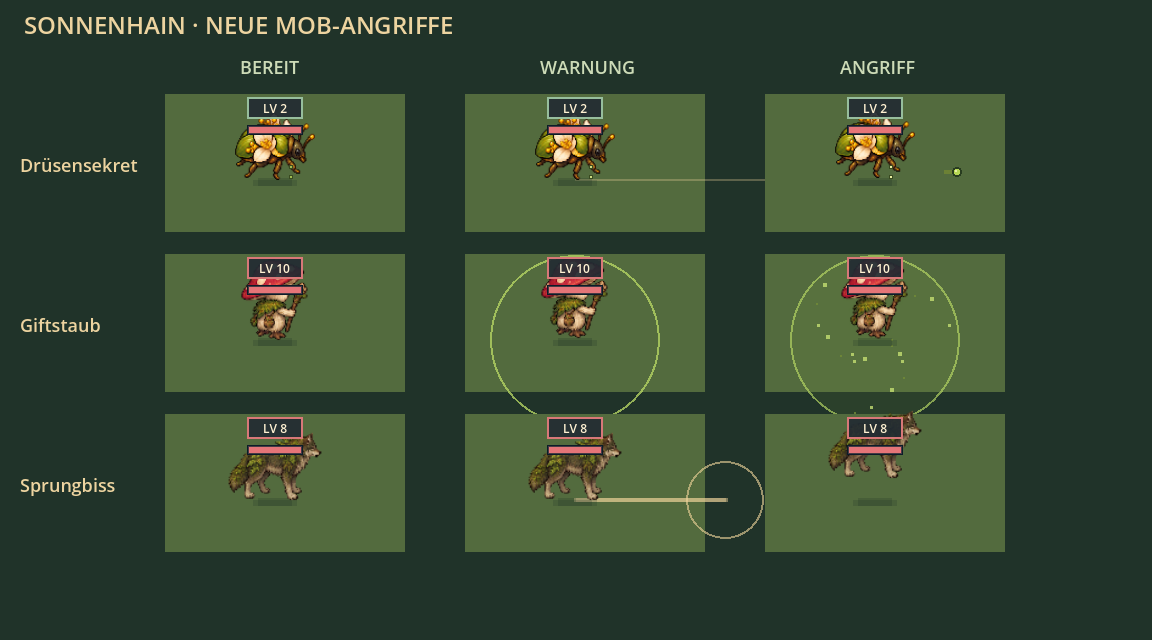
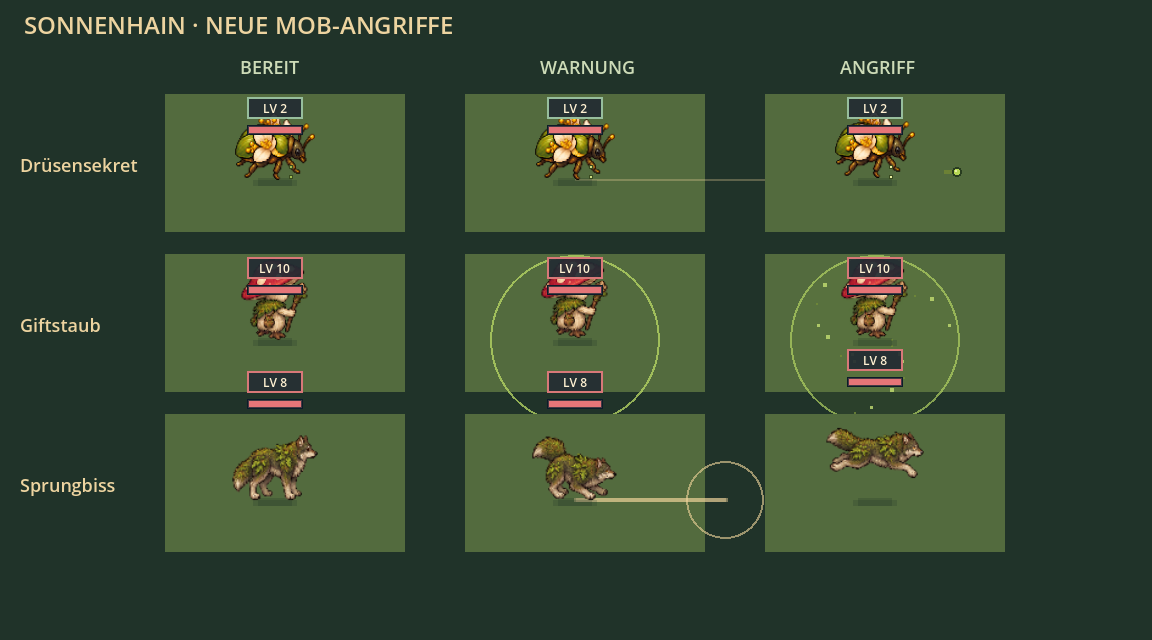
[deploy] Animate the moss wolf with articulated eight-direction pose cycles

Changed region(s): [[0.4375, 0.5625, 0.5625, 0.7812], [0.1875, 0.5625, 0.2812, 0.7812], [0.7188, 0.5312, 0.8125, 0.75]]

diff --git a/tools/build_wolf_animation.py b/tools/build_wolf_animation.py
@@ -1,0 +1,76 @@
+"""Crop and pack authored poses without painting or deforming their anatomy."""
+from pathlib import Path
+import sys
+from collections import deque
+from PIL import Image,ImageChops,ImageFilter
+
+ROOT=Path(__file__).resolve().parents[1]
+ART=ROOT / "art/sprites/mobs/wolf_v3"
+
+def sprite_boxes(cell):
+    """Extract intact animals even when a tail crosses a nominal grid line."""
+    width,height=cell.size
+    mask=bytearray(cell.getchannel("A").point(lambda a:1 if a>=96 else 0).tobytes())
+    results=[]
+    for start in range(len(mask)):
+        if not mask[start]:continue
+        mask[start]=0
+        queue=deque([start])
+        left=right=start%width
+        top=bottom=start//width
+        count=0
+        pixels=[]
+        while queue:
+            at=queue.popleft()
+            pixels.append(at)
+            x,y=at%width,at//width
+            left,right,top,bottom=min(left,x),max(right,x),min(top,y),max(bottom,y)
+            count+=1
+            for dy in (-1,0,1):
+                for dx in (-1,0,1):
+                    nx,ny=x+dx,y+dy
+                    if (dx or dy) and 0<=nx<width and 0<=ny<height:
+                        nxt=ny*width+nx
+                        if mask[nxt]:mask[nxt]=0;queue.append(nxt)
+        if count>1000:results.append(((left,top,right+1,bottom+1),pixels))
+    return results
+
+def build(direction, source):
+    image=Image.open(source).convert("RGBA")
+    assert image.getchannel("A").getextrema()[0]==0, "Need a transparent source"
+    width,height=image.size
+    boxes=sprite_boxes(image)
+    assert len(boxes)==24,f"Expected 24 intact wolves, found {len(boxes)}"
+    ordered={}
+    for bounds,pixels in boxes:
+        x=int((bounds[0]+bounds[2])*.5/(width/4))
+        y=int((bounds[1]+bounds[3])*.5/(height/6))
+        frame=y*4+x
+        assert frame not in ordered,f"Two poses share slot {frame}"
+        cell=image.crop(bounds)
+        # Adjacent poses sometimes overlap bounding rectangles. A silhouette
+        # mask extracts this animal only; one pixel retains its alpha fringe.
+        mask=bytearray(cell.width*cell.height)
+        for at in pixels:
+            px,py=at%width-bounds[0],at//width-bounds[1]
+            mask[py*cell.width+px]=255
+        silhouette=Image.frombytes("L",cell.size,bytes(mask)).filter(ImageFilter.MaxFilter(3))
+        cell.putalpha(ImageChops.multiply(cell.getchannel("A"),silhouette))
+        ordered[frame]=cell
+    assert set(ordered)==set(range(24)),"Every animation slot must have a whole animal"
+    cells=[ordered[frame] for frame in range(24)]
+    # Scale once from the idle body and preserve that size in every action.
+    ratio=min(76/max(c.width for c in cells[:4]),72/max(c.height for c in cells[:4]))
+    output=Image.new("RGBA",(128*24,128))
+    for frame,cell in enumerate(cells):
+        size=(max(1,round(cell.width*ratio)),max(1,round(cell.height*ratio)))
+        assert size[0]<=116 and size[1]<=100, f"Pose {frame} needs larger margins: {size}"
+        cell=cell.resize(size,Image.Resampling.NEAREST)
+        output.alpha_composite(cell,(frame*128+(128-size[0])//2,104-size[1]))
+    (ART / "source").mkdir(parents=True,exist_ok=True)
+    (ART / "source/.gdignore").write_text("")
+    image.save(ART / "source" / f"{direction}.png")
+    output.save(ART / f"{direction}.png")
+    print(f"WOLF_ANIMATION_ASSET_OK {direction}: 4 idle, 8 gait, 4 bite, 4 pounce, 2 hurt, 2 death")
+
+if __name__=="__main__":build(sys.argv[1],sys.argv[2])

diff --git a/docs/design/wolf-animation-v3.md b/docs/design/wolf-animation-v3.md
@@ -1,0 +1,33 @@
+# Mooswolf: erste vollständige Animationsgrundlage
+
+9. Oktober 2026. Die acht Standbilder werden durch 192 gezeichnete Posen ersetzt, ohne den Kampfablauf zu ändern.
+
+## Bilder und Zustände
+
+Pro Richtung: vier Ruheposen, acht Gangphasen, vier Bissposen, vier Sprungposen, zwei Treffer-/Erholungsposen und zwei Todesposen. Die Sprungfolge verwendet zusätzlich den leichten Biss-Vorbereitungsduck und die aufgerichtete Erholung, insgesamt sechs unterschiedliche Körperposen. Alle acht Richtungen haben eigene Bilder; Seitenansichten werden nicht aus einer Frontansicht gedreht.
+
+Die Pfoten, Gelenke, Schnauze und der Schwanz wechseln ihre tatsächlich gezeichnete Stellung. Zusätzlicher Ganzkörper-Hop und künstlicher Vorstoß des alten Wolf-Renderers entfallen. Beim echten Sprung bleibt die bisherige berechnete Flughöhe bestehen; der Bodenschatten bleibt am Boden.
+
+Der Biss öffnet die Kiefer im Ausholen und zeigt den Schnapp-Frame ab der tatsächlichen Trefferphase. Der Sprung beginnt mit leichtem und tiefem Ducken, zeigt Abstoß, Flug, eingeknickte Vorderbeine beim Landen und anschließendes Aufrichten. Trefferreaktionen haben Vorrang; Tod verwendet ein Zusammenbrechen und einen gefallenen Körper mit Ausblenden statt einer vertikalen Bildverformung.
+
+Levelanzeige und Lebensbalken bleiben über dem Kopf und folgen beim Sprung der Bildhöhe, damit sie die neue Körperpose nicht verdecken.
+
+## Bewegungsphase
+
+Eine Gangrunde entspricht 84 Welteinheiten. Die Phase wächst nur mit tatsächlich zurückgelegter Bodenstrecke. Langsamer gewordene oder blockierte Wölfe treten daher nicht weiter im alten Takt. Im Mehrspielerbetrieb wird die Phase aus der interpolierten Bewegung fortgesetzt und bei neuen Snapshots nicht zurückgesetzt. Große Positionskorrekturen erzeugen keinen hektisch durchlaufenden Gang. Sprungstrecken zählen nicht als Gehstrecke.
+
+Ruhebewegungen nutzen Zeit und den bestehenden individuellen Mob-Seed. Die Todesdarstellung dauert beim Wolf 0,95 Sekunden; Belohnung und tatsächlicher Tod erfolgen weiterhin sofort. Angriffe, Projektil-/Flächenregeln, Schaden, Reichweiten und Serverentscheidungen bleiben gleich.
+
+## Generierung und Aufbereitung
+
+Mit dem eingebauten Bildgenerierungswerkzeug und dem bisherigen Mooswolf als Identitätsreferenz. Die vollständigen Richtungs-Prompts stehen in `wolf-animation-prompts.json`.
+
+Quellen: `art/sprites/mobs/wolf_v3/source/`, mit `.gdignore` vom Spielimport ausgeschlossen. Spielstreifen: je Richtung `art/sprites/mobs/wolf_v3/<richtung>.png`, 24 Rahmen von 128×128 Pixeln. Die Aufbereitung isoliert die zusammenhängenden Wolfsilhouetten, damit über nominale Rastergrenzen reichende Körperteile vollständig erhalten bleiben und keine Nachbarbildreste erscheinen. Ein Pixel Rand bewahrt die Alpha-Kontur. Pro Richtung gilt ein fester Maßstab aus den Ruheposen; einzelne Bewegungsbilder werden nicht separat auf gleiche Größe gestreckt.
+
+## Prüfung und Erweiterung
+
+`check_wolf_animation.gd` prüft alle 192 Rahmen, transparente Ränder, unterschiedliche Gangbilder, vollständige Wiedergabe, Biss-/Sprungphasen sowie Treffer- und Todesbilder. Die Spielintegration prüft außerdem, dass echte Bewegung die Gangphase fortsetzt und Betäubung sie stoppt. Vorhandene Angriffs- und echte WebSocket-Prüfungen bestätigen unveränderte Treffer und Synchronisierung.
+
+`capture_wolf_animation.gd` rendert eine native 48-Bilder-Vorschau aller acht Richtungen für Ruhe, Gang, Biss und Sprung. `docs/mob-erneuerung/wolf-animationen.gif` ist die daraus erstellte Vorschau.
+
+Diese Runde setzt den angekündigten ersten Schritt am Wolf um. Käfer, Pilzling und Schleim behalten zunächst ihre bisherige Bewegung; auf dieser Grundlage folgen deren artspezifische Posen.
